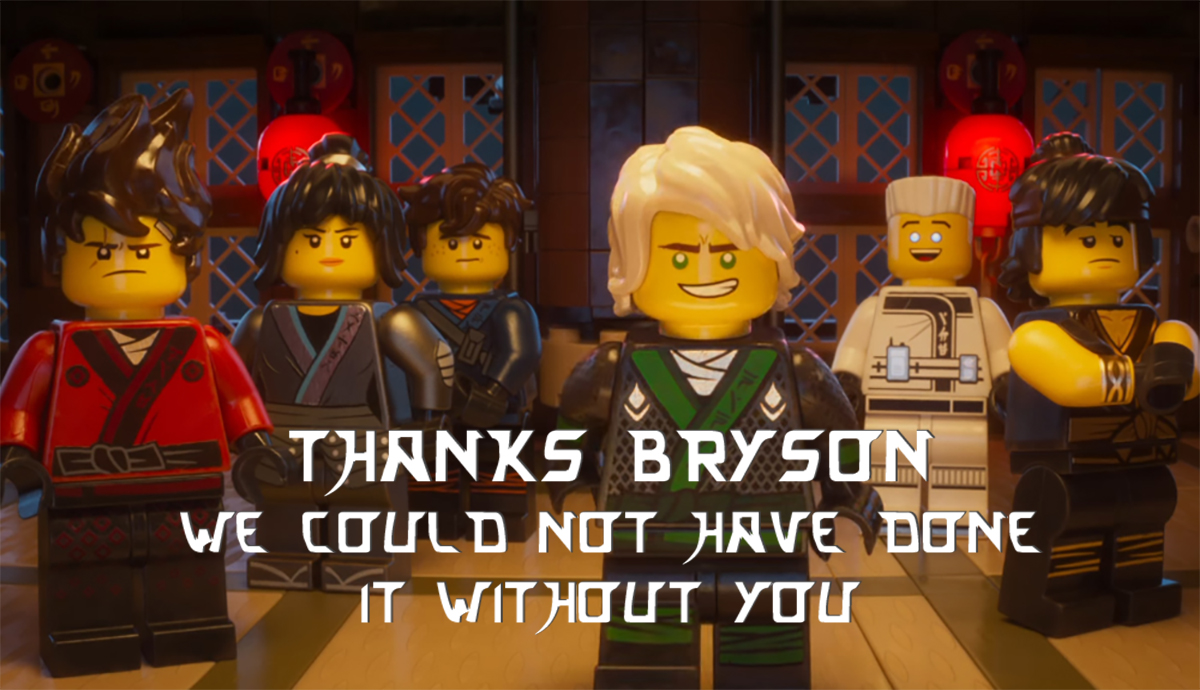
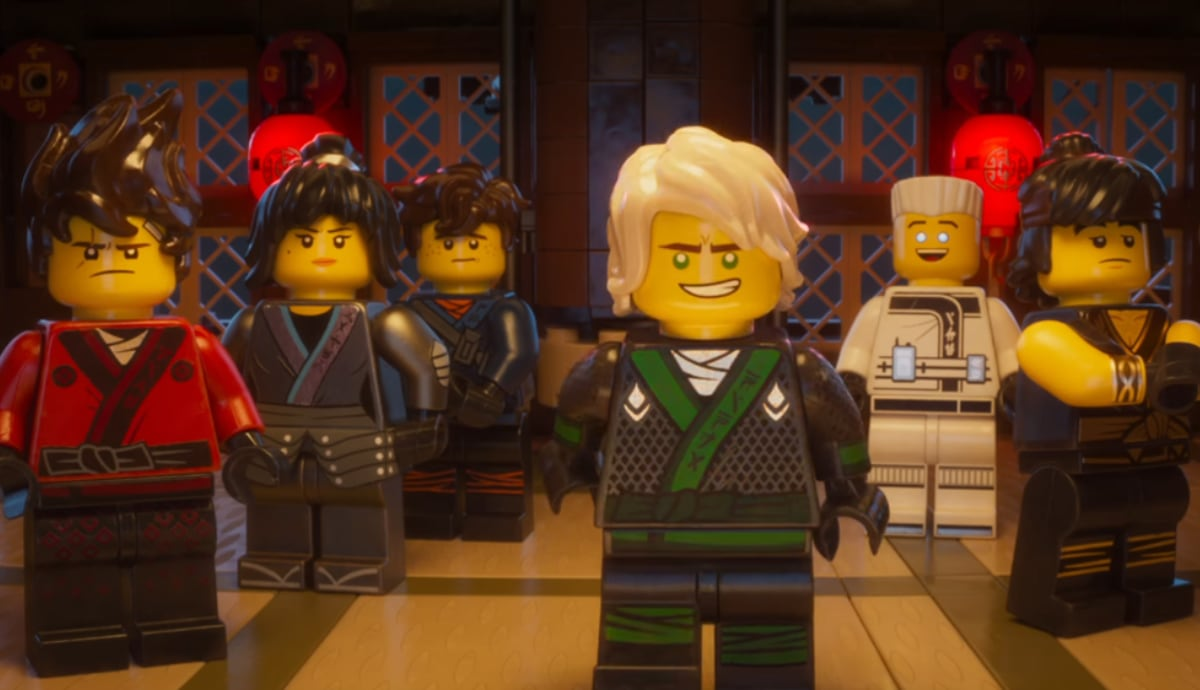
Make thank you text on Number Boss dynamic.

diff --git a/scenes/Init.js b/scenes/Init.js
@@ -59,9 +59,21 @@ export default class Init extends Scene {
         // JSON data
         this.load.json('data', assets.Init.data.data.json);
 
+        // Fonts
+        this.loadFont('ninjago', assets.Init.fonts.Ninjago.ttf);
+
         this.load.on('progress', this.onLoadProgress, this);
         this.load.on('complete', this.onLoadComplete, this);
         this.createProgressBar();
+    }
+
+    loadFont(name, url) {
+        var newFont = new FontFace(name, `url(${url})`);
+        newFont.load().then(function (loaded) {
+            document.fonts.add(loaded);
+        }).catch(function (error) {
+            return error;
+        });
     }
 
     create() {

diff --git a/scenes/Numbers_Boss.js b/scenes/Numbers_Boss.js
@@ -626,6 +626,18 @@ export default class Numbers_Boss extends Base_Scene {
 
 		this.thanks_image.visible = true;
 
+		let thanks_style = {
+            fontFamily: 'ninjago',
+            fill: '#fff',
+            fontSize: '45pt',
+            align: 'center',
+            lineSpacing: 18
+		};
+		let thanks_string = 'Thanks Bryson\nWe could not have done\nit without you';
+	    let thanks_text = this.add.text(GAME_WIDTH/2, GAME_HEIGHT-55, thanks_string, thanks_style);
+	    thanks_text.setOrigin(0.5, 1);
+	    thanks_text.setDepth(Layers.TRANSITION_TEXT);
+
 		this.tweens.add({
 			targets: this.overlay,
 			alpha: 0,

diff --git a/scenes/Credits.js b/scenes/Credits.js
@@ -15,17 +15,6 @@ export default class Credits extends Scene {
     preload() {
         this.load.audio('ending', assets.ending.mp3);
         this.load.json('credits', assets.credits.json);
-
-        this.loadFont('ninjago', assets.Ninjago.ttf);
-    }
-
-    loadFont(name, url) {
-        var newFont = new FontFace(name, `url(${url})`);
-        newFont.load().then(function (loaded) {
-            document.fonts.add(loaded);
-        }).catch(function (error) {
-            return error;
-        });
     }
 
     create() {

diff --git a/scenes/Base_Scene.js b/scenes/Base_Scene.js
@@ -35,6 +35,7 @@ export const Layers = {
     // All
     DRAGGING: 100,
     TRANSITION: 150,
+    TRANSITION_TEXT: 160,
     HOME: 200,
     OVERLAY: 300
 }
